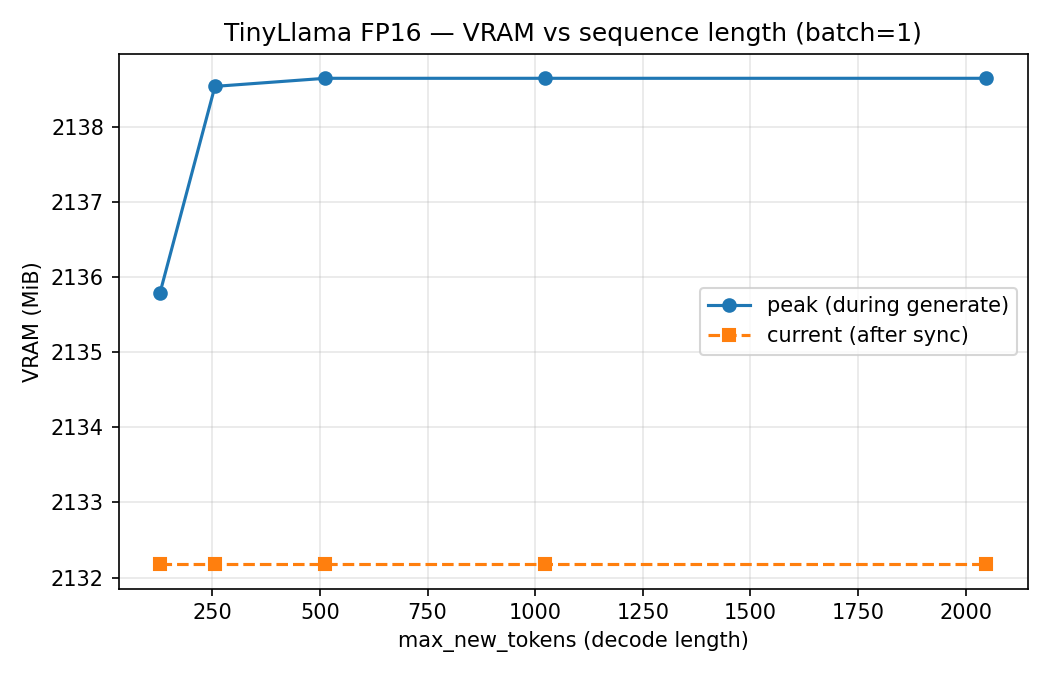
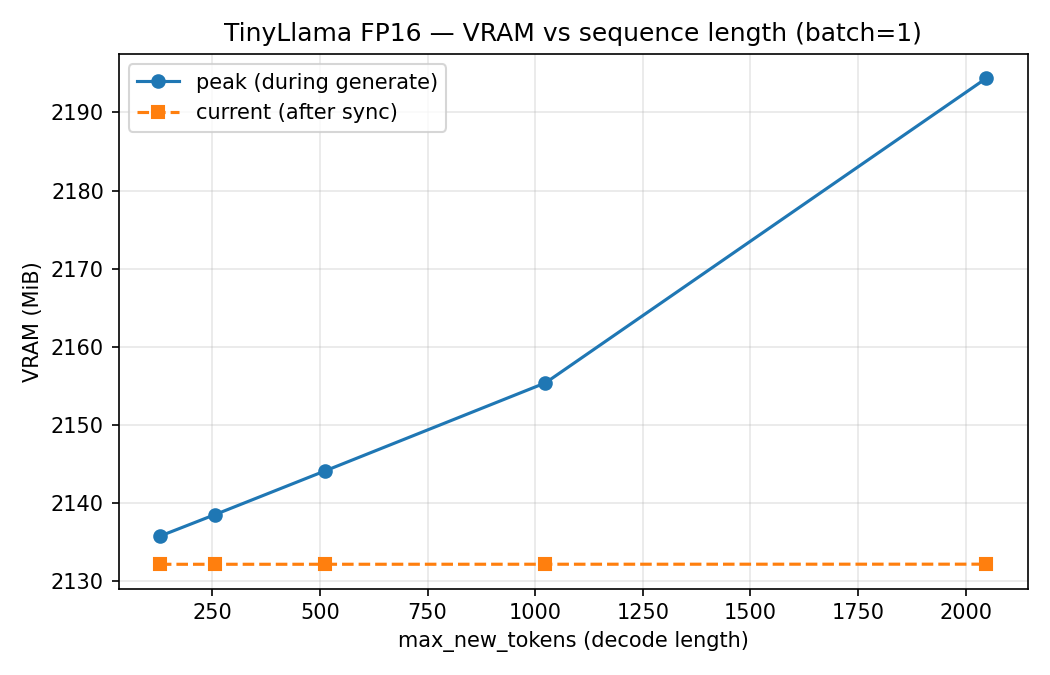
fix(vram_observer): forcing generate() to produce at least max_new_tokens, turned off EOS logit suppressor logic, and print output to verify output is as expected, graph corrected

diff --git a/src/inference_sandbox/vram_observer.py b/src/inference_sandbox/vram_observer.py
@@ -11,10 +11,10 @@ PLOT_DIR.mkdir(parents=True, exist_ok=True)
 CONFIG = BenchmarkConfig(dtype=torch.float16)
 BENCH = HFBenchmark(CONFIG)
 BENCH.load_components()
-
 PROMPT = CONFIG.prompts[0]
+
 TOKEN_AMOUNTS = [128, 256, 512, 1024, 2048]
-SAMPLES = [] # one row per max_new_tokens
+TOKEN_SAMPLES = [] # one row per max_new_tokens
 
 # Measuring peak GPU tensor memory during `generate()`
 for max_new_tokens in TOKEN_AMOUNTS:
@@ -22,28 +22,39 @@ for max_new_tokens in TOKEN_AMOUNTS:
     inputs = BENCH.build_chat_inputs(PROMPT)
     gen_kw = BENCH.build_generation_kwargs(inputs)
 
+    gen_kw["min_new_tokens"] = max_new_tokens
+    gen_kw["eos_token_id"] = None
+
+    input_len = inputs["input_ids"].shape[1]
+
     torch.cuda.synchronize()
     torch.cuda.reset_peak_memory_stats()
 
     with torch.no_grad():
-        BENCH.model.generate(**gen_kw)
+        out = BENCH.model.generate(**gen_kw)
     
     torch.cuda.synchronize()
     curr_bytes = torch.cuda.memory_allocated()
     peak_bytes = torch.cuda.max_memory_allocated()
     
-    SAMPLES.append({
+    actual_new_tokens = out.shape[1] - input_len
+    TOKEN_SAMPLES.append({
         "max_new_tokens": max_new_tokens,
+        "actual_new_tokens": actual_new_tokens,
         "curr_mib": curr_bytes / (1024 ** 2),
         "peak_mib": peak_bytes / (1024 ** 2),
     })
-
+    print(
+        f"max_new_tokens={max_new_tokens} "
+        f"actual={actual_new_tokens} "
+        f"peak={peak_bytes / (1024**2):.1f} MiB"
+    )
     del gen_kw
 BENCH.unload_components()
 
-xs = [s["max_new_tokens"] for s in SAMPLES]
-peak = [s["peak_mib"] for s in SAMPLES]
-curr = [s["curr_mib"] for s in SAMPLES]
+xs = [s["max_new_tokens"] for s in TOKEN_SAMPLES]
+peak = [s["peak_mib"] for s in TOKEN_SAMPLES]
+curr = [s["curr_mib"] for s in TOKEN_SAMPLES]
 fig, ax = plt.subplots(figsize=(7, 4.5), dpi=150)
 ax.plot(xs, peak, marker="o", label="peak (during generate)")
 ax.plot(xs, curr, marker="s", linestyle="--", label="current (after sync)")
